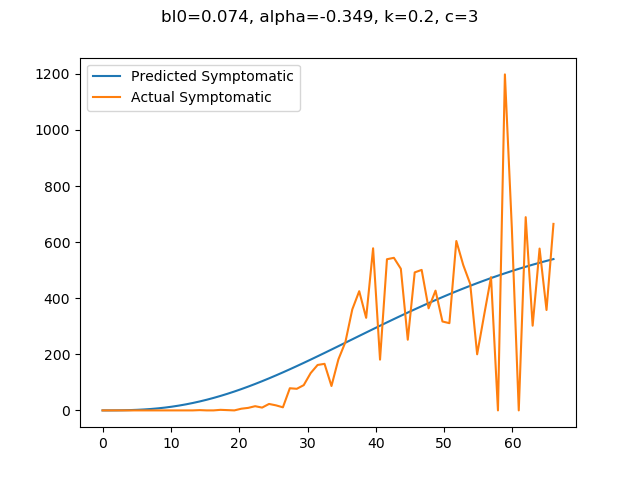
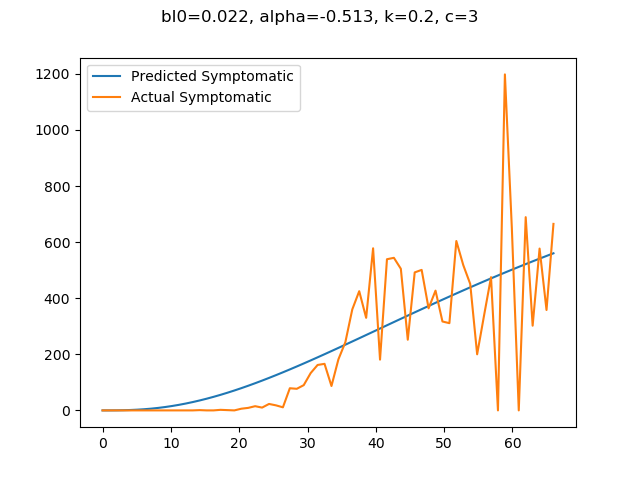
final reffective

diff --git a/covidModel.py b/covidModel.py
@@ -280,22 +280,22 @@ def c1c2_heatmap():
 # you always need to globally define the dataset
 conf_incidence = define_dataset(2, 21)
 
-global y0
-y0 = [1526000,1,0,0,0,0,0,0] #define population
-global t
-t = np.linspace(0,66,num=66)
-#plot already existing case data
-conf_data = np.loadtxt('COVID_city_county.csv', dtype=str,delimiter=",") #this is the incidence
-pre_incidence = [float(x) for x in conf_data[2][2:]]
-conf_incidence = pre_incidence[34:100]
+# global y0
+# y0 = [1526000,1,0,0,0,0,0,0] #define population
+# global t
+# t = np.linspace(0,66,num=66)
+# #plot already existing case data
+# conf_data = np.loadtxt('COVID_city_county.csv', dtype=str,delimiter=",") #this is the incidence
+# pre_incidence = [float(x) for x in conf_data[2][2:]]
+# conf_incidence = pre_incidence[34:100]
 
 
-# bI0, alpha = SD_curve_fit(.2, 3).x
-# plot_for_vals(conf_incidence, bI0, alpha, .2, 3)
+bI0, alpha = SD_curve_fit(.2, 3).x
+plot_for_vals(conf_incidence, bI0, alpha, .2, 3)
 
 # op = get_curve_fit(.2, 3)
 # plot_for_vals(conf_incidence, op.x, .2, 3)
-cost_heatmap()
+# cost_heatmap()
 
 # bI_heatmap()
 # R0_heatmap()
